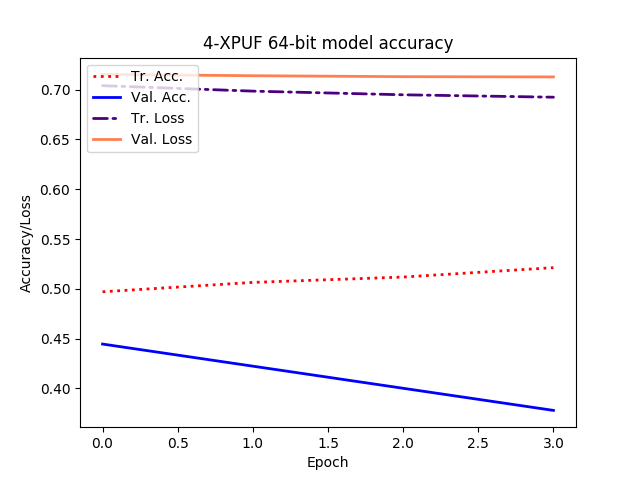
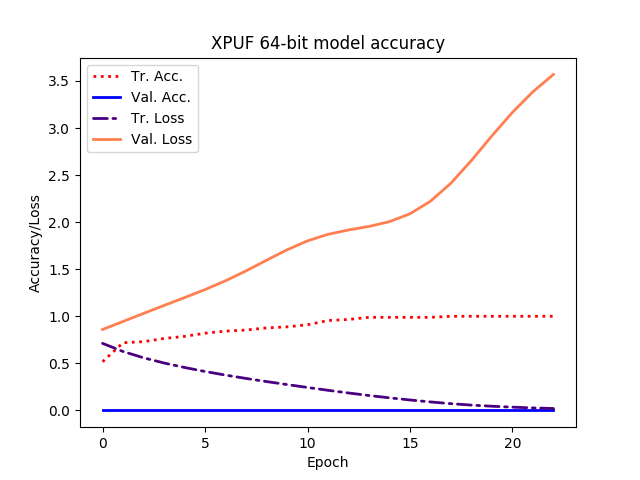
Verified silicon 9-XPUF 64-bit attack! Expected accuracy is between 94% an 96%.

diff --git a/main/__init__.py b/main/__init__.py
@@ -26,12 +26,12 @@ def get_args():
     parser.add_argument('--stages', metavar="S", type=int,
                         default=64, help='Test size (0-1)')
     parser.add_argument('--challenges', metavar="C", type=int,
-                        default=350000, help='Number of challenges')
-    parser.add_argument('--streams', metavar="SS", type=int, default=6, help='Number of streams in XPUF')
+                        default=5000000, help='Number of challenges')
+    parser.add_argument('--streams', metavar="SS", type=int, default=8, help='Number of streams in XPUF (it is used to obtain the NN structure)')
     parser.add_argument('--epochs', metavar="R", type=int, default=100, help='Number of epochs')
-    parser.add_argument('--plot', metavar="PC", type=int, default=0, help='Plotting option')
+    parser.add_argument('--plot', metavar="PC", type=int, default=1, help='Plotting option')
     parser.add_argument('--plotdist', metavar="PT", nargs='?', default='loss_and_accuracy.png')
-    parser.add_argument('--patience', metavar="P", type=int, default=5, help='Early stopping patience')
+    parser.add_argument('--patience', metavar="P", type=int, default=3, help='Early stopping patience')
 
     return parser.parse_args()
 
@@ -43,14 +43,14 @@ def get_args():
 'This function read and split the CRPs of the dataset and store them in a predefined arrays'
 def reading_file(args, challenges_array, response_array):
     print('********** Start rading files **********')
-    file = '../CRPs/challenges_6XOR_64bit_LUT_2239B_attacking_1M.mymemmap'
+    file = '../CRPs/challenges_9XOR_64bit_LUT_2239B_attacking_5M.mymemmap'
     '================================================================================================='
     challenges_array = np.array(np.memmap(
                 file,
                 dtype='int8', mode='c',
                 shape=(args.challenges, args.stages)))
     response_array = np.array(np.memmap(
-                '../CRPs/respnses_6XOR_64bit_LUT_2239B_attacking_1M.mymemmap',
+                '../CRPs/respnses_9XOR_64bit_LUT_2239B_attacking_5M.mymemmap',
                 dtype='int8', mode='c',
                 shape=(args.challenges)))
 

diff --git a/models/__init__.py b/models/__init__.py
@@ -38,7 +38,8 @@ class XOR_PUF(BaseEstimator, ClassifierMixin):
         plt.plot(history.history['loss'], label="training loss", color='#4b0082', linewidth=2,
                  linestyle=(0, (5, 2, 1, 2)), dash_capstyle='round')
         plt.plot(history.history['val_loss'], label="validation loss", color='coral', linewidth=2)
-        plt.title('%1.0f-XPUF 64-bit model accuracy'%self.streams)
+        # plt.title('%1.0f-XPUF 64-bit model accuracy'%self.streams)
+        plt.title('XPUF 64-bit model accuracy')
         plt.ylabel('Accuracy/Loss')
         plt.xlabel('Epoch')
         plt.legend(['Tr. Acc.', 'Val. Acc.', 'Tr. Loss', 'Val. Loss'], loc='upper left')
@@ -75,7 +76,7 @@ class XOR_PUF(BaseEstimator, ClassifierMixin):
         self.model.compile(optimizer='adam', loss='binary_crossentropy', metrics=['accuracy'])
 
         '************************* training **************************************************'
-        history = self.model.fit(X_train, y_train, epochs=self.epochs, batch_size=512, callbacks=[time_callback, callbacks],
+        history = self.model.fit(X_train, y_train, epochs=self.epochs, batch_size=10000, callbacks=[time_callback, callbacks],
                                  shuffle=True, validation_split=0.01)
         if self.plot == 1:
             self.plotting(history)
